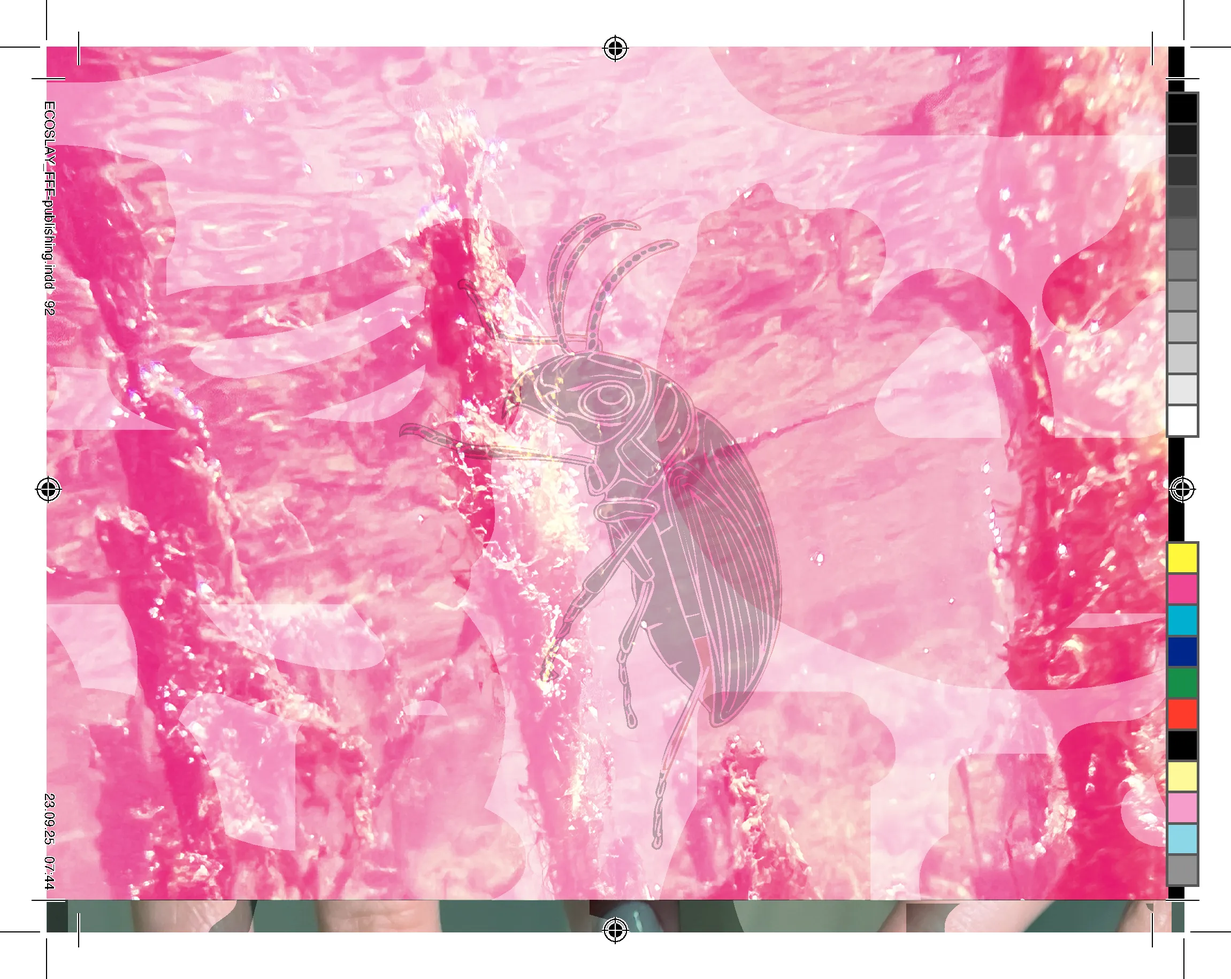
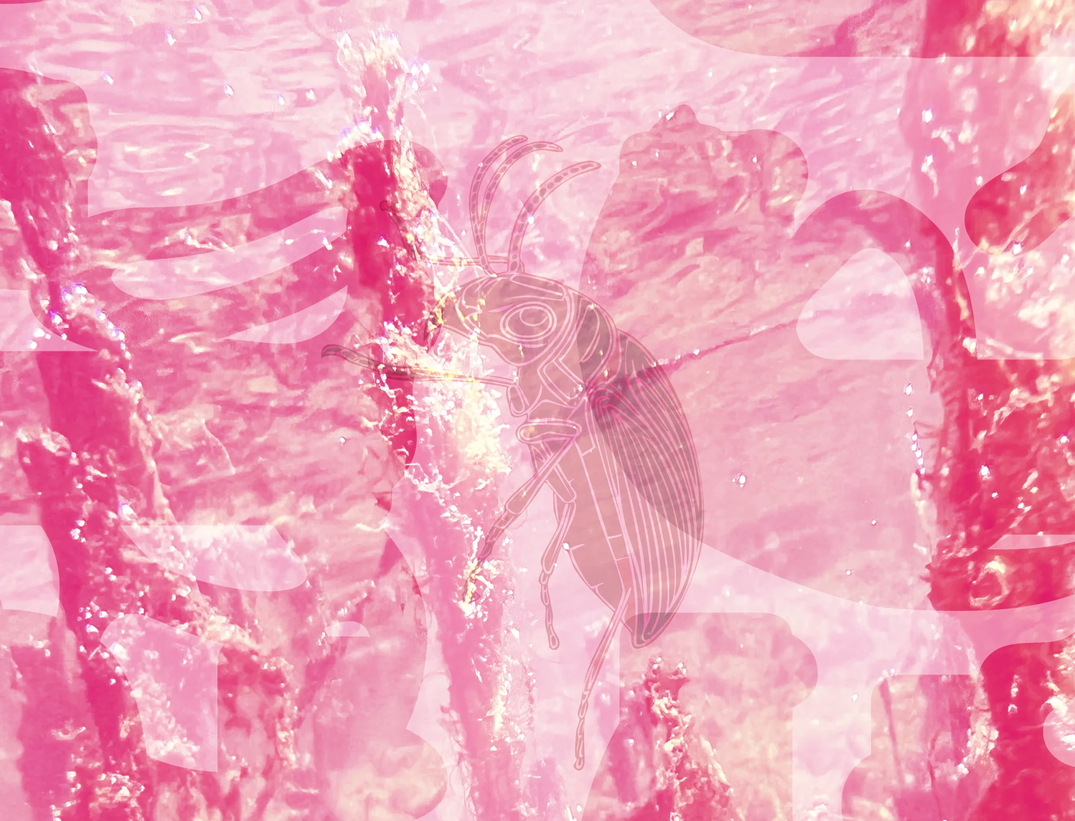
Replace background image and fix tiling bug with fixed pseudo-element

diff --git a/style.css b/style.css
@@ -16,16 +16,23 @@
 }
 
 body {
-  background-color: var(--pink);
-  background-image: url('background.webp');
-  background-size: 120%;
-  background-position: center;
-  background-attachment: fixed;
+  background: none;
   min-height: 100vh;
   font-family: 'Montserrat', sans-serif;
   font-weight: 550;
   font-size: clamp(15px, 14px + 0.3vw, 18px);
   overflow-x: hidden;
+  }
+
+body::before {
+  content: '';
+  position: fixed;
+  inset: 0;
+  z-index: -1;
+  background-color: var(--pink);
+  background-image: url('background.webp');
+  background-size: cover;
+  background-position: center;
   }
 
 /* ── MAIN ── */
@@ -777,21 +784,6 @@ h3.apply-heading {
     font-family: 'Bebas Neue', sans-serif;
     text-transform: uppercase;
     letter-spacing: 0.12em;
-  }
-
-  body {
-    background: none;
-    background-color: var(--pink);
-  }
-
-  body::before {
-    content: '';
-    position: fixed;
-    inset: 0;
-    z-index: -1;
-    background-image: url('background19x6.jpg');
-    background-size: cover;
-    background-position: center;
   }
 }
 
